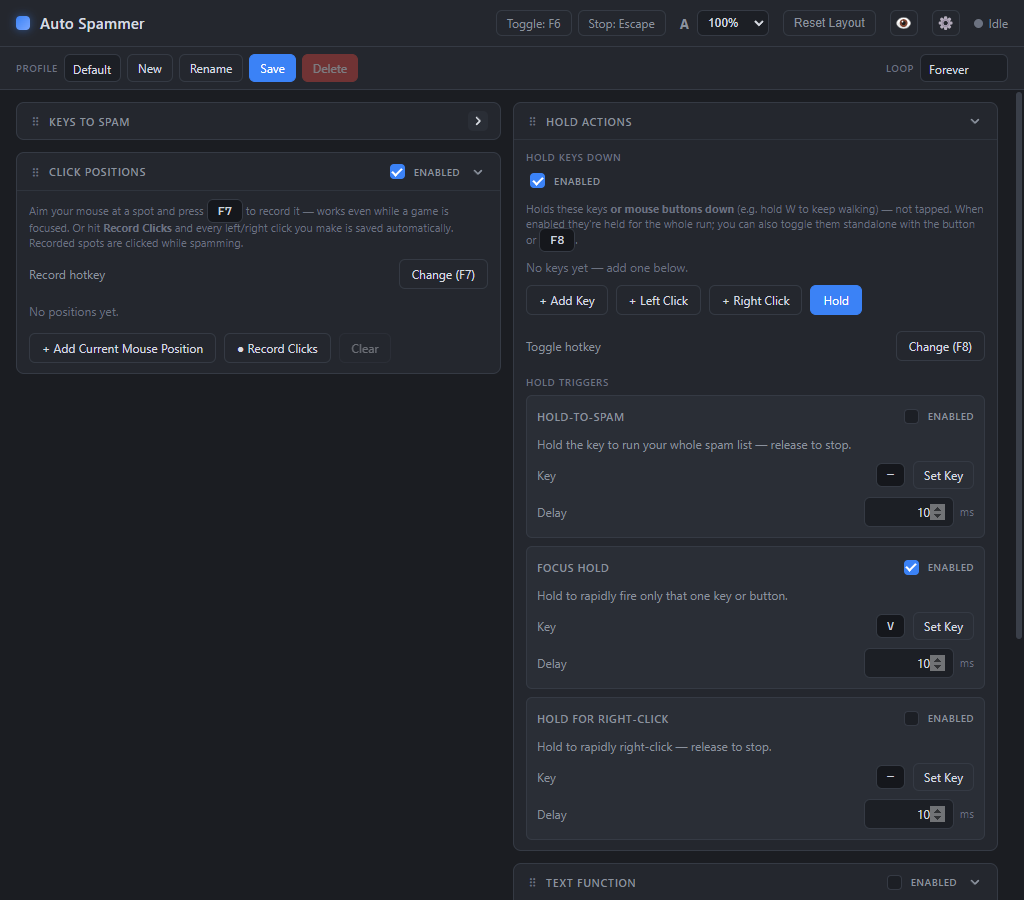
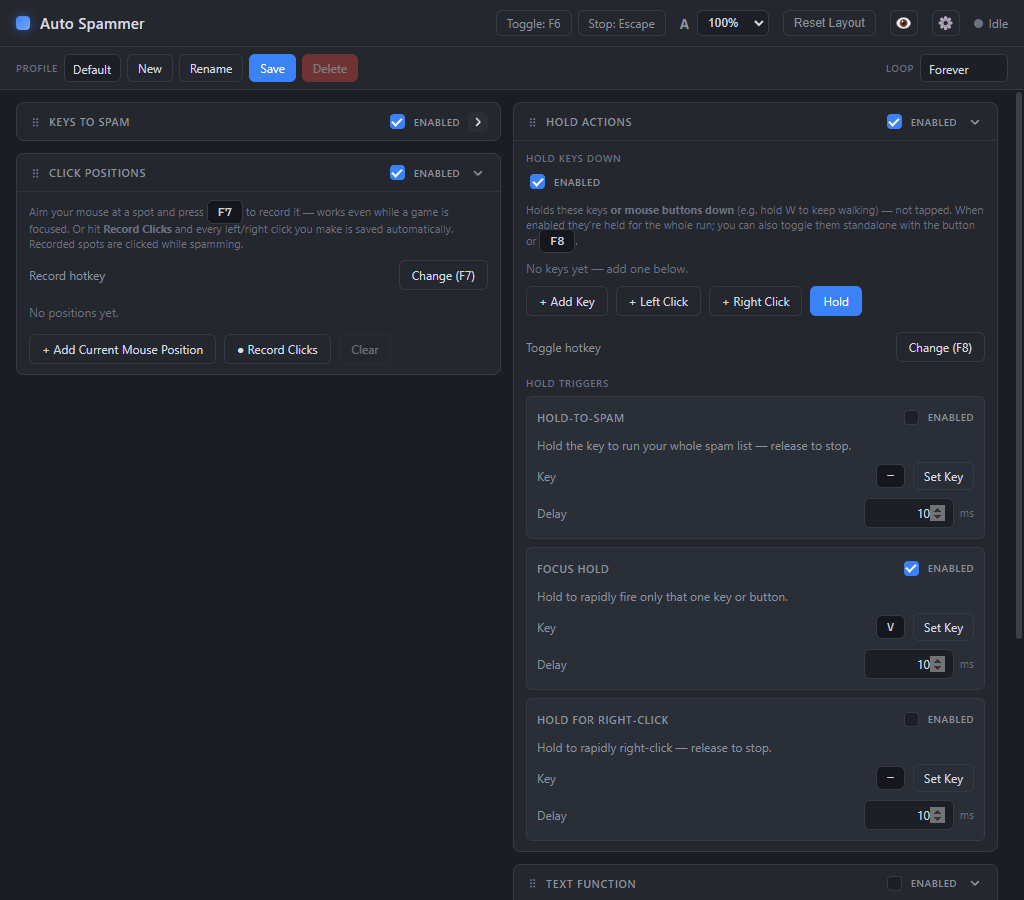
Show an Enabled toggle in the header of Keys to Spam and Hold Actions
These two container sections had no header Enabled toggle, so (unlike Click
Positions, Macro, etc.) nothing showed in their collapsed header. Give each a
master Enabled switch in the header — visible and functional in both expanded
and collapsed states.

- New per-profile `disabledSections` map (mirrors hiddenSections: `true` = the
  section's master switch is off). KeysSection / HoldActionsSection pass a header
  SectionToggle bound to it via the existing Section `right` slot (so it renders
  in the collapsed header) plus `dim` when off. Inner feature toggles are
  unchanged.
- applyHiddenSections now treats a section as "off for a run" when it's hidden OR
  master-disabled, so disabling Keys to Spam skips Spam Keys + Periodic and
  disabling Hold Actions skips Hold Keys Down + the three hold modes. Stored
  feature flags are untouched, so re-enabling the section restores them.
- types/defaults/persistence/sanitize: add + backfill disabledSections; store
  gains setSectionDisabled. No engine changes (gating flows through
  applyHiddenSections); drag-and-drop grip, collapse chevron, resize, and the
  Sections manager all keep working.
- tests: unit test for master-disable gating; e2e asserts both sections show a
  header Enabled toggle that stays visible when collapsed and dims the body.
- Regenerate docs/showcase-*.png; README note; bump to 1.30.1.

diff --git a/src/shared/sections.ts b/src/shared/sections.ts
@@ -129,30 +129,34 @@ export function isSectionHidden(
  */
 export function applyHiddenSections(profile: Profile): Profile {
   const h = profile.hiddenSections
-  if (!h || Object.keys(h).length === 0) return profile
-  const hid = (id: string): boolean => h[id] === true
-  // "Keys to Spam" holds the Spam Keys list and Periodic Actions; "Hold Actions"
-  // holds Hold Keys Down + the three hold-trigger modes. Hiding either disables
-  // everything it contains.
-  const keysHidden = hid('keys')
-  const holdHidden = hid('holdActions')
+  const d = profile.disabledSections
+  const noHidden = !h || Object.keys(h).length === 0
+  const noDisabled = !d || Object.keys(d).length === 0
+  if (noHidden && noDisabled) return profile
+
+  // A section's features don't run if it's hidden (Sections manager) OR its
+  // master Enabled switch is off. "Keys to Spam" holds the Spam Keys list and
+  // Periodic Actions; "Hold Actions" holds Hold Keys Down + the three hold modes.
+  const off = (id: string): boolean => h?.[id] === true || d?.[id] === true
+  const keysOff = off('keys')
+  const holdOff = off('holdActions')
 
   return {
     ...profile,
     options: {
       ...profile.options,
-      enableKeys: profile.options.enableKeys && !keysHidden,
-      enableClickPositions: profile.options.enableClickPositions && !hid('clickPositions')
+      enableKeys: profile.options.enableKeys && !keysOff,
+      enableClickPositions: profile.options.enableClickPositions && !off('clickPositions')
     },
-    textFunction: hid('textFunction')
+    textFunction: off('textFunction')
       ? { ...profile.textFunction, enabled: false }
       : profile.textFunction,
-    holdKeys: holdHidden ? { ...profile.holdKeys, enabled: false } : profile.holdKeys,
-    periodicKey: keysHidden ? { ...profile.periodicKey, enabled: false } : profile.periodicKey,
-    macro: hid('macro') ? { ...profile.macro, enabled: false } : profile.macro,
-    holdToSpam: holdHidden ? { ...profile.holdToSpam, enabled: false } : profile.holdToSpam,
-    focusHold: holdHidden ? { ...profile.focusHold, enabled: false } : profile.focusHold,
-    rightClickHold: holdHidden
+    holdKeys: holdOff ? { ...profile.holdKeys, enabled: false } : profile.holdKeys,
+    periodicKey: keysOff ? { ...profile.periodicKey, enabled: false } : profile.periodicKey,
+    macro: off('macro') ? { ...profile.macro, enabled: false } : profile.macro,
+    holdToSpam: holdOff ? { ...profile.holdToSpam, enabled: false } : profile.holdToSpam,
+    focusHold: holdOff ? { ...profile.focusHold, enabled: false } : profile.focusHold,
+    rightClickHold: holdOff
       ? { ...profile.rightClickHold, enabled: false }
       : profile.rightClickHold
   }

diff --git a/src/renderer/src/components/KeysSection.tsx b/src/renderer/src/components/KeysSection.tsx
@@ -1,6 +1,7 @@
 import React, { useState } from 'react'
 import { useStore } from '../store'
 import { Section } from './Section'
+import { SectionToggle } from './SectionToggle'
 import { Accordion } from './Accordion'
 import { SpamKeysTab } from './SpamKeysTab'
 import { PeriodicTab } from './PeriodicTab'
@@ -14,16 +15,27 @@ type Pane = 'spam' | 'periodic'
  * on an accordion header shows when its feature is enabled.
  */
 export function KeysSection(): JSX.Element {
-  const { activeProfile } = useStore()
+  const { activeProfile, setSectionDisabled } = useStore()
   const [open, setOpen] = useState<Record<Pane, boolean>>({ spam: true, periodic: false })
   if (!activeProfile) return <></>
 
+  const sectionEnabled = activeProfile.disabledSections?.['keys'] !== true
   const spamOn = activeProfile.options.enableKeys
   const periodicOn = activeProfile.periodicKey.enabled
   const toggle = (k: Pane): void => setOpen((o) => ({ ...o, [k]: !o[k] }))
 
   return (
-    <Section title="Keys to Spam">
+    <Section
+      title="Keys to Spam"
+      dim={!sectionEnabled}
+      right={
+        <SectionToggle
+          checked={sectionEnabled}
+          onChange={(v) => setSectionDisabled('keys', !v)}
+          title="Enable Keys to Spam (Spam Keys + Periodic) for runs"
+        />
+      }
+    >
       <div className="accgroup">
         <Accordion title="Spam Keys" open={open.spam} on={spamOn} onToggle={() => toggle('spam')}>
           <SpamKeysTab />

diff --git a/tests/e2e/app.spec.ts b/tests/e2e/app.spec.ts
@@ -96,6 +96,30 @@ test('Hold Actions is its own top-level section with Hold Keys + the three modes
   }
 })
 
+test('Keys to Spam and Hold Actions show a header Enabled toggle, even collapsed', async () => {
+  for (const name of ['Keys to Spam', 'Hold Actions']) {
+    const sec = section(name)
+    // A single master toggle in the section header (not the inner feature toggles).
+    const headToggle = sec.locator('.section__head-actions .section__toggle input')
+    await expect(headToggle).toHaveCount(1)
+    await expect(headToggle).toBeVisible()
+    await expect(headToggle).toBeChecked() // sections are enabled by default
+
+    // Collapse the section — the header toggle stays visible and usable.
+    await sec.locator('.section__collapse').click()
+    await expect(sec).toHaveClass(/section--collapsed/)
+    await expect(headToggle).toBeVisible()
+
+    // Toggling it off (while collapsed) dims the body once re-expanded; toggle back on.
+    await headToggle.uncheck()
+    await expect(headToggle).not.toBeChecked()
+    await sec.locator('.section__collapse').click() // expand
+    await expect(sec.locator('.section__body')).toHaveClass(/section__body--off/)
+    await headToggle.check()
+    await expect(sec.locator('.section__body')).not.toHaveClass(/section__body--off/)
+  }
+})
+
 test('the Profile and Loop controls live in the header toolbar', async () => {
   const subbar = win.locator('.subbar')
   // Profile picker + actions.

diff --git a/src/renderer/src/store.tsx b/src/renderer/src/store.tsx
@@ -46,6 +46,8 @@ interface Store {
   setSectionHidden: (id: string, hidden: boolean) => void
   /** Make every section visible again. */
   showAllSections: () => void
+  /** Master enable/disable a whole container section (e.g. Keys to Spam). */
+  setSectionDisabled: (id: string, disabled: boolean) => void
   /** Persist a new drag-and-drop section layout (per profile). */
   setSectionLayout: (layout: SectionLayout) => void
   /** Restore the default section order. */
@@ -246,6 +248,18 @@ export function StoreProvider({ children }: { children: React.ReactNode }): JSX.
     updateProfile((p) => ({ ...p, hiddenSections: {} }))
   }, [updateProfile])
 
+  const setSectionDisabled = useCallback(
+    (id: string, disabled: boolean) => {
+      updateProfile((p) => {
+        const next = { ...(p.disabledSections ?? {}) }
+        if (disabled) next[id] = true
+        else delete next[id]
+        return { ...p, disabledSections: next }
+      })
+    },
+    [updateProfile]
+  )
+
   const setSectionLayout = useCallback(
     (layout: SectionLayout) => {
       updateProfile((p) => ({ ...p, sectionLayout: normalizeLayout(layout) }))
@@ -441,6 +455,7 @@ export function StoreProvider({ children }: { children: React.ReactNode }): JSX.
     toggleSectionCollapsed,
     setSectionHidden,
     showAllSections,
+    setSectionDisabled,
     setSectionLayout,
     resetSectionLayout,
     createProfile,

diff --git a/tests/unit/sections.test.ts b/tests/unit/sections.test.ts
@@ -98,7 +98,30 @@ describe('section visibility', () => {
     expect(p.holdToSpam.enabled).toBe(true)
   })
 
-  it('applyHiddenSections is a no-op when nothing is hidden', () => {
+  it('a master-disabled section skips its features on a run (like hidden)', () => {
+    const p = createDefaultProfile()
+    p.options.enableKeys = true
+    p.periodicKey.enabled = true
+    p.holdKeys.enabled = true
+    p.holdToSpam.enabled = true
+    p.focusHold.enabled = true
+    p.rightClickHold.enabled = true
+    // The sections are still visible, but their master Enabled switch is off.
+    p.disabledSections = { keys: true, holdActions: true }
+
+    const eff = applyHiddenSections(p)
+    expect(eff.options.enableKeys).toBe(false)
+    expect(eff.periodicKey.enabled).toBe(false)
+    expect(eff.holdKeys.enabled).toBe(false)
+    expect(eff.holdToSpam.enabled).toBe(false)
+    expect(eff.focusHold.enabled).toBe(false)
+    expect(eff.rightClickHold.enabled).toBe(false)
+    // Stored flags untouched (re-enabling the section restores them).
+    expect(p.options.enableKeys).toBe(true)
+    expect(p.holdKeys.enabled).toBe(true)
+  })
+
+  it('applyHiddenSections is a no-op when nothing is hidden or disabled', () => {
     const p = createDefaultProfile()
     expect(applyHiddenSections(p)).toBe(p)
   })

diff --git a/src/renderer/src/components/HoldActionsSection.tsx b/src/renderer/src/components/HoldActionsSection.tsx
@@ -1,15 +1,33 @@
 import React from 'react'
+import { useStore } from '../store'
 import { Section } from './Section'
+import { SectionToggle } from './SectionToggle'
 import { HoldActionsGroup } from './HoldActionsGroup'
 
 /**
  * "Hold Actions" — its own top-level section (a draggable / resizable / hideable
  * panel) containing the Hold Keys Down list and the three hold-trigger modes.
- * Split back out of "Keys to Spam"; the internal card layout is unchanged.
+ * A master Enabled toggle in the header (visible even when collapsed) gates the
+ * whole section; the per-feature toggles inside still apply when it's enabled.
  */
 export function HoldActionsSection(): JSX.Element {
+  const { activeProfile, setSectionDisabled } = useStore()
+  if (!activeProfile) return <></>
+
+  const sectionEnabled = activeProfile.disabledSections?.['holdActions'] !== true
+
   return (
-    <Section title="Hold Actions">
+    <Section
+      title="Hold Actions"
+      dim={!sectionEnabled}
+      right={
+        <SectionToggle
+          checked={sectionEnabled}
+          onChange={(v) => setSectionDisabled('holdActions', !v)}
+          title="Enable Hold Actions (Hold Keys Down + the hold-trigger modes) for runs"
+        />
+      }
+    >
       <HoldActionsGroup />
     </Section>
   )

diff --git a/src/main/persistence.ts b/src/main/persistence.ts
@@ -75,6 +75,8 @@ function migrate(data: PersistedData): PersistedData {
     if (!p.collapsedSections || typeof p.collapsedSections !== 'object') p.collapsedSections = {}
     // Section visibility was added later; older saves start with all visible.
     if (!p.hiddenSections || typeof p.hiddenSections !== 'object') p.hiddenSections = {}
+    // Per-section master enable was added later; older saves start all enabled.
+    if (!p.disabledSections || typeof p.disabledSections !== 'object') p.disabledSections = {}
     // The macro recorder was added later; older saves start with an empty macro.
     if (!p.macro || typeof p.macro !== 'object') p.macro = { enabled: false, events: [] }
     if (!Array.isArray(p.macro.events)) p.macro.events = []

diff --git a/src/shared/types.ts b/src/shared/types.ts
@@ -135,6 +135,13 @@ export interface Profile {
    * section is visible. All sections are visible by default.
    */
   hiddenSections: Record<string, boolean>
+  /**
+   * Master enable for whole "container" sections (Keys to Spam, Hold Actions),
+   * keyed by section id. `true` = the section is disabled (its features are
+   * skipped on a run and its body is dimmed); a missing id means enabled. The
+   * individual feature toggles inside still work when the section is enabled.
+   */
+  disabledSections: Record<string, boolean>
   /** Full keyboard + mouse macro recording for this profile. */
   macro: MacroConfig
   /** Drag-and-drop section order, per column. */

diff --git a/src/main/index.ts b/src/main/index.ts
@@ -234,6 +234,7 @@ function sanitizeProfile(p: Profile): Profile {
     sectionHeights: sanitizeSectionHeights(p.sectionHeights),
     collapsedSections: sanitizeSectionFlags(p.collapsedSections),
     hiddenSections: sanitizeSectionFlags(p.hiddenSections),
+    disabledSections: sanitizeSectionFlags(p.disabledSections),
     macro: sanitizeMacro(p.macro),
     sectionLayout: normalizeLayout(p.sectionLayout)
   }

diff --git a/src/shared/defaults.ts b/src/shared/defaults.ts
@@ -63,6 +63,7 @@ export function createDefaultProfile(name = 'Default'): Profile {
     sectionHeights: {},
     collapsedSections: {},
     hiddenSections: {},
+    disabledSections: {},
     macro: {
       enabled: false,
       events: []

diff --git a/README.md b/README.md
@@ -19,7 +19,7 @@
 
 <!-- DOWNLOAD BUTTONS -->
 <p align="center">
-  <a href="https://github.com/Scarmonit/AutoSpammer/releases/latest/download/AutoSpammer-Portable-1.30.0.exe">
+  <a href="https://github.com/Scarmonit/AutoSpammer/releases/latest/download/AutoSpammer-Portable-1.30.1.exe">
     <img src="https://img.shields.io/badge/Download%20Latest%20Version-Windows-3b82f6?style=for-the-badge&logo=windows&logoColor=white" alt="Download Latest Version (Windows)" height="46" />
   </a>
   &nbsp;
@@ -40,8 +40,8 @@ No setup or extra tools required — each option is a single file you just run.
 
 | Option | Best for | File |
 | --- | --- | --- |
-| **Portable** | Easiest — just run it. Nothing is installed. | **[AutoSpammer-Portable-1.30.0.exe](https://github.com/Scarmonit/AutoSpammer/releases/latest/download/AutoSpammer-Portable-1.30.0.exe)** |
-| **Installer** | Adds Desktop and Start-menu shortcuts. | **[AutoSpammer-Setup-1.30.0.exe](https://github.com/Scarmonit/AutoSpammer/releases/latest/download/AutoSpammer-Setup-1.30.0.exe)** |
+| **Portable** | Easiest — just run it. Nothing is installed. | **[AutoSpammer-Portable-1.30.1.exe](https://github.com/Scarmonit/AutoSpammer/releases/latest/download/AutoSpammer-Portable-1.30.1.exe)** |
+| **Installer** | Adds Desktop and Start-menu shortcuts. | **[AutoSpammer-Setup-1.30.1.exe](https://github.com/Scarmonit/AutoSpammer/releases/latest/download/AutoSpammer-Setup-1.30.1.exe)** |
 
 You can also open the **[latest release page](https://github.com/Scarmonit/AutoSpammer/releases/latest)** and grab either file under **Assets**.
 
@@ -88,7 +88,7 @@ You can also open the **[latest release page](https://github.com/Scarmonit/AutoS
 - **Resizable sections** — drag the splitter between two panels to resize them; double-click to reset.
 - **Collapsible sections** — collapse any panel to just its title bar with the header chevron.
 - **Keys to Spam** — the key list with its quick options, plus a collapsible **Periodic Actions** accordion for timed presses. **Hold Actions** is its own separate section (Hold Keys Down + the three hold-trigger modes). A dot on an accordion / mode header marks anything that's enabled.
-- **Independent enabling** — Spam Keys, every Hold Action, Periodic Actions, Click Positions, Text Function, and Macro each have their own *Enabled* switch. A disabled feature greys out and is skipped on the next run.
+- **Independent enabling** — *every* section has an **Enabled** switch in its header (shown even when the section is collapsed). Keys to Spam and Hold Actions add one too, as a master switch for the whole group, while their inner parts keep their own toggles. A disabled feature greys out and is skipped on the next run.
 - **UI scale** — a top-bar dropdown zooms the whole app (100–200%) for readability; double-click to type a custom percentage.
 - **Remembers window size and position** — the app reopens exactly where and how big you left it.
 - **Mouse buttons everywhere** — every key binding accepts a keyboard key *or* a mouse button (LMB, RMB, MMB, MB4, MB5).
